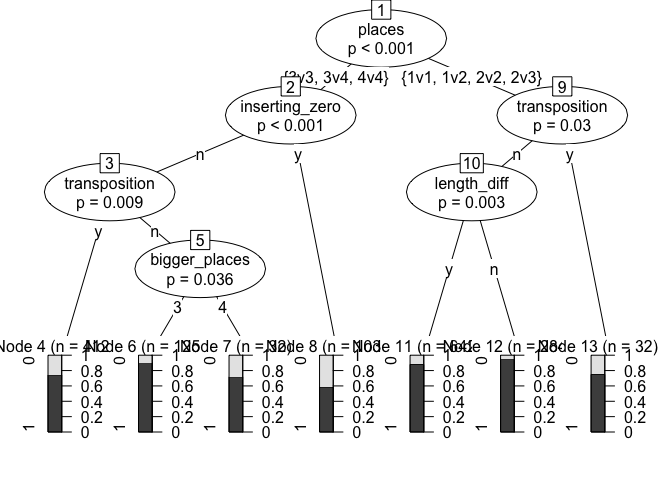
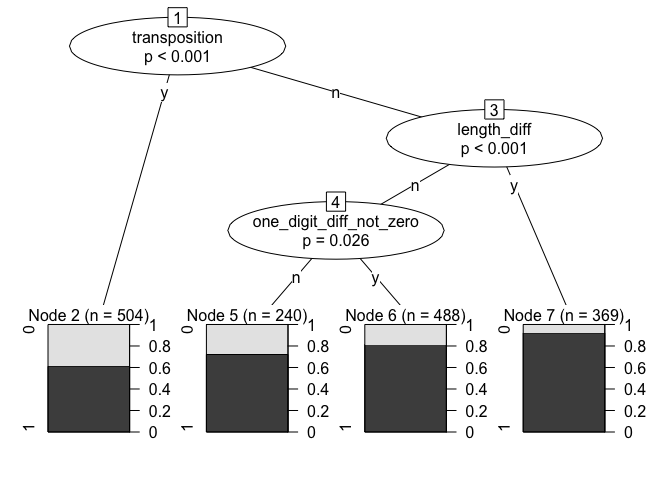
added more stats excel helper file

diff --git a/Markdown/Analysis-2_Decision-trees_stats.md b/Markdown/Analysis-2_Decision-trees_stats.md
@@ -1,69 +1,26 @@
 Analysis 2\_Decision trees\_stats
 ================
 
+This code calculates the chi square statistics for each split in the
+decision trees by quartile for the N and More tasks.
+
+It utilize these files in the Data folder:
+
+-   data\_n\_tree\_stats\_helper.csv
+-   data\_n\_tree\_stats\_helper.csv Both files contain columns:
+    quartile, split\_node, left\_terminal, right\_terminal, feature,
+    feature\_value.
+
+The value are hand-coded after producing the tree plots using Analysis
+2\_Decision trees\_plots.Rmd, that contains inner node split information
+
 ## Load libraries & data
 
 ``` r
 library(party)
-```
-
-    ## Loading required package: grid
-
-    ## Loading required package: mvtnorm
-
-    ## Loading required package: modeltools
-
-    ## Loading required package: stats4
-
-    ## Loading required package: strucchange
-
-    ## Loading required package: zoo
-
-    ## 
-    ## Attaching package: 'zoo'
-
-    ## The following objects are masked from 'package:base':
-    ## 
-    ##     as.Date, as.Date.numeric
-
-    ## Loading required package: sandwich
-
-``` r
 library(tidyverse)
-```
-
-    ## ── Attaching packages ─────────────────────────────────────── tidyverse 1.3.1 ──
-
-    ## ✓ ggplot2 3.3.5     ✓ purrr   0.3.4
-    ## ✓ tibble  3.1.2     ✓ dplyr   1.0.6
-    ## ✓ tidyr   1.1.3     ✓ stringr 1.4.0
-    ## ✓ readr   1.4.0     ✓ forcats 0.5.1
-
-    ## ── Conflicts ────────────────────────────────────────── tidyverse_conflicts() ──
-    ## x stringr::boundary() masks strucchange::boundary()
-    ## x dplyr::filter()     masks stats::filter()
-    ## x dplyr::lag()        masks stats::lag()
-
-``` r
 library(here)
-```
-
-    ## here() starts at /Users/leyu6965/Dropbox/GitHub/Statistical-learning-and-the-development-of-knowledge-systems
-
-``` r
 library(caret)
-```
-
-    ## Loading required package: lattice
-
-    ## 
-    ## Attaching package: 'caret'
-
-    ## The following object is masked from 'package:purrr':
-    ## 
-    ##     lift
-
-``` r
 #library(partykit) 
 ```
 
@@ -71,12 +28,10 @@ library(caret)
 
 ``` r
 # indicate the task name, make it easier for adopting the same code for both the N and M tasks
-task_name = "n"
+task_name = "more"
 
 # input files
 data_long = read.csv(here(paste0("Data/data_", task_name,"_long.csv")))
-
-data_tree_nodes = read.csv(here(paste0("Data/data_tree_nodes_",task_name,".csv")))
 
 data_tree_stats_help = read.csv(here(paste0("Data/data_", task_name, "_tree_stats_helper.csv")))
 # this file contain information about each split information (e.g., left/right terminal nodes, the splitting features, left/right feature_value)
@@ -104,10 +59,6 @@ data_long = data_long %>%
          transposition = as.factor(transposition),
          inserting_zero = as.factor(inserting_zero))
 
-# initialize empty variables 
-prediction_acc_results  = NULL  # save confusion matrix results for each tree
-data_long_terminal = NULL # save the terminal node number for each row (or trial), for plotting the item-level accuracy graphs for each quartile
-
 Analysis2_chisq_results = NULL
 
 set.seed(240)
@@ -115,8 +66,6 @@ set.seed(240)
 for (i in 1:4) {
   # get quartile data
   temp_data = subset(data_long, quartile == i) 
-  temp_inner_nodes = subset(data_tree_nodes, quartile == i) %>%
-    filter(node_type == "inner") 
   
   temp_splits = subset(data_tree_stats_help, quartile == i)
   temp_split_nodes = unique(temp_splits$split_node)
@@ -129,11 +78,11 @@ for (i in 1:4) {
   
   plot(ct)
   
-  # save tree node number to quartile data
+  # save tree terminal node number to quartile data
   a = where(ct)
   temp_data_with_node_number = cbind(temp_data,a)
   
-  # loop through each inner node and computer the stats
+  # loop through each split, get all left and right split data, and computer the stats
   for (j in 1:temp_split_nodes_num) {
     temp_data = subset(temp_splits, split_node == temp_split_nodes[j])
     
@@ -173,18 +122,10 @@ for (i in 1:4) {
 }
 ```
 
-![](Analysis-2_Decision-trees_stats_files/figure-gfm/unnamed-chunk-3-1.png)<!-- -->
+![](Analysis-2_Decision-trees_stats_files/figure-gfm/unnamed-chunk-3-1.png)<!-- -->![](Analysis-2_Decision-trees_stats_files/figure-gfm/unnamed-chunk-3-2.png)<!-- -->
 
-    ## Warning in chisq.test(all_data$group, all_data$acc): Chi-squared approximation
-    ## may be incorrect
-
-![](Analysis-2_Decision-trees_stats_files/figure-gfm/unnamed-chunk-3-2.png)<!-- -->
-
-    ## Warning in chisq.test(all_data$group, all_data$acc): Chi-squared approximation
-    ## may be incorrect
-
-    ## Warning in chisq.test(all_data$group, all_data$acc): Chi-squared approximation
-    ## may be incorrect
+    ## Warning in data.frame(quartile = i, split = temp_split_nodes[j], left_acc =
+    ## left_acc, : row names were found from a short variable and have been discarded
 
 ![](Analysis-2_Decision-trees_stats_files/figure-gfm/unnamed-chunk-3-3.png)<!-- -->
 

diff --git a/Markdown/Analysis-2_Decision-trees_plots.md b/Markdown/Analysis-2_Decision-trees_plots.md
@@ -29,8 +29,8 @@ library(caret)
 
 ``` r
 # indicate the task name, make it easier for adopting the same code for both the N and M tasks
-task_name = "n"
-#task_name = "more"
+#task_name = "n"
+task_name = "more"
 
 # input files
 data_long = read.csv(here(paste0("Data/data_", task_name,"_long.csv")))
